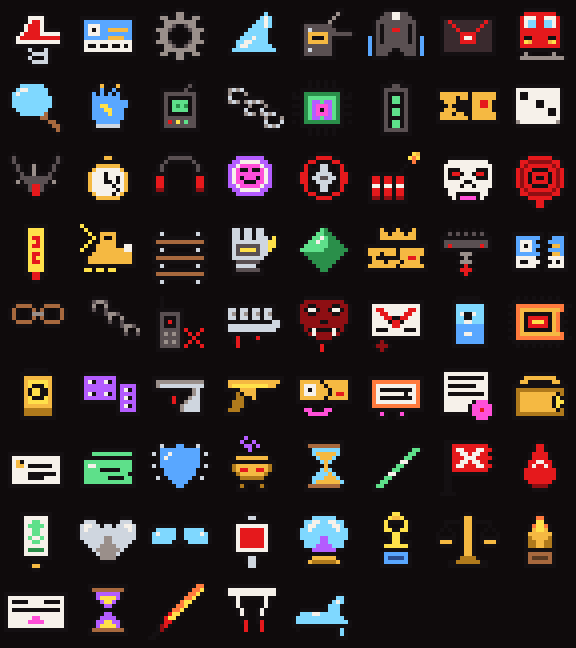
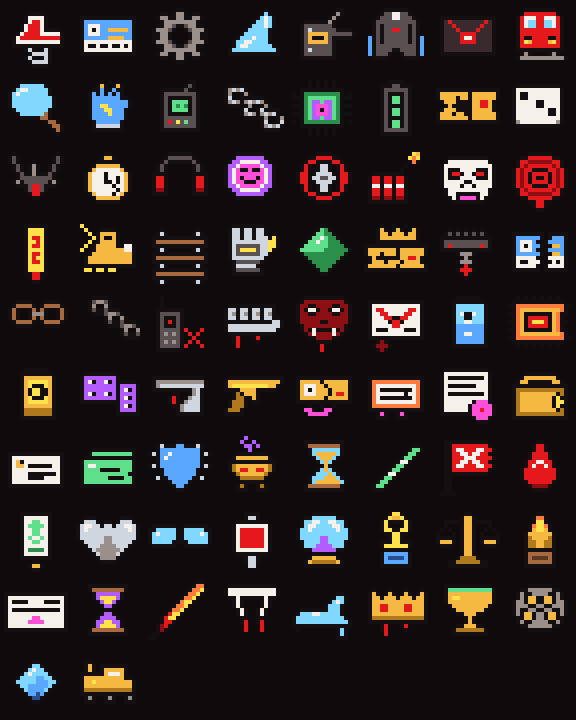
각인 S급 합성식: 같은 각인 4세트로 출장소 합성 시 그 각인 전용 S급(5종)이 후보 첫 칸에 · 작업대 안내 · 아이콘 5개
Claude-Session: https://claude.ai/code/session_01B3xQ3TWwgitFmhy9ffcws9

diff --git a/index.html b/index.html
@@ -589,7 +589,14 @@ const ITEMS={
  satanael:{n:'사타나엘의 탄환',ic:'🔥',r:'폭발',ax:'공용',rift:1,d:'모든 공격이 내성·방어·경감을 무시하고 무조건 2연타 (2개: 3연타)'},
  blank:{n:'벨벳 룸의 백지수표',ic:'🧾',r:'폭발',ax:'공용',rift:1,d:'출장소의 템·휴식·진열 바꾸기가 전부 ¥0 + 섀도 전투 보상을 한 번 더 고른다'},
  glassshoe:{n:'유리의 구두',ic:'👠',r:'폭발',ax:'공용',rift:1,d:'약점이 아니어도 매 턴 각자의 첫 공격 스킬이 1 MORE (2개: 첫 2번)'},
- fate:{n:'운명의 모래시계',ic:'⌛',r:'폭발',ax:'공용',rift:1,d:'전투 시작 시 관문 포함 적 전체의 현재 HP 50% 삭감 (2개: 60%)'}};
+ fate:{n:'운명의 모래시계',ic:'⌛',r:'폭발',ax:'공용',rift:1,d:'전투 시작 시 관문 포함 적 전체의 현재 HP 50% 삭감 (2개: 60%)'},
+ /* 각인 S급: 같은 각인 4세트를 맞춘 채 출장소에서 합성하면 그 각인의 S급이 합성 후보 첫 칸에 뜬다 (거울 던전식 키워드 합성) */
+ bloodcrown:{n:'피의 대관식',ic:'👑',r:'폭발',ax:'왜곡',rift:1,tagS:'자해',d:'잃은 HP 1%당 그 사람 피해 +1.5%'},
+ grail:{n:'불멸의 성배',ic:'🏆',r:'폭발',ax:'공용',rift:1,tagS:'재생',d:'매 턴 시작 전원 실드 +12 · [재생] 4세트 고정 피해 ×2'},
+ drum:{n:'무한 회전 탄창',ic:'🥁',r:'폭발',ax:'공용',rift:1,tagS:'연타',d:'모든 공격 스킬이 한 번 더 때린다'},
+ stone:{n:'현자의 돌',ic:'💠',r:'폭발',ax:'약점',rift:1,tagS:'마력',d:'스킬 SP 소모 절반 · 약점을 찌르면 SP +5'},
+ engine:{n:'황금 기관차',ic:'🚂',r:'폭발',ax:'공용',rift:1,tagS:'탐욕',d:'가진 엔 ¥1,000당 파티 공격력 +10% · 전투 엔 +50%'}};
+const TAG_S={자해:'bloodcrown',재생:'grail',연타:'drum',마력:'stone',탐욕:'engine'};
 const up=(id,a,b)=>cnt(id)>=2||(cnt(id)>=1&&(G.plus||[]).includes(id))?b:a;/* 같은 유물 2개 이상 또는 출장소 +1 강화 */
 /* 출장소: 템 하나를 고르면 판매 · +1 강화, 둘을 고르면 합성 */
 const SELL_P={B:100,A:250,S:500},PLUS_P={B:300,A:500,S:800},canPlus=id=>/2개/.test((IT(id)||{}).d||'')&&!(G.plus||[]).includes(id)&&cnt(id)<2;/* 같은 유물 2개 이상 = +1 강화 */
@@ -615,7 +622,7 @@ const TAGS={자해:{c:'#ff5a5a',s2:'HP 60% 이하인 사람 공격력 +35%',s4:'
  cell:'마력 연타',oclock:'마력 자해',infbat:'마력 연타',tdice:'연타 탐욕',trigger:'연타 마력',revolver:'연타 탐욕',gate:'탐욕 자해',oneway:'자해 재생',
  contract:'자해 마력',wallet:'탐욕 연타',card:'탐욕 자해',checks:'탐욕 재생',spshield:'재생 자해',censer:'마력 탐욕',hourglass:'재생 마력',rbaton:'연타 재생',flag:'재생 연타',
  bloodoath:'자해 연타',regen:'재생 마력',steelheart:'재생 자해',perfect:'재생 연타',transfuse:'재생 탐욕',phoenix:'자해 재생',glasscannon:'자해 마력',coil:'자해 마력',fang:'연타 재생',miser:'탐욕 재생',
- satanael:'연타 자해',blank:'탐욕 재생',glassshoe:'마력 연타',fate:'자해 마력',
+ satanael:'연타 자해',blank:'탐욕 재생',glassshoe:'마력 연타',fate:'자해 마력',bloodcrown:'자해 재생',grail:'재생 마력',drum:'연타 탐욕',stone:'마력 자해',engine:'탐욕 연타',
  sboots:'연타 탐욕',rails:'연타 마력',gaunt:'마력 연타',navi:'마력 탐욕',gold:'연타 탐욕',choker:'자해 재생'};
  for(const [k,v] of Object.entries(T)){const I=ITEMS[k]||EVO[k];if(I)I.tg=v.split(' ')}
  /* 표에 등급이 적힌 템은 그 등급 (나머지는 역할 기준) */
@@ -883,7 +890,7 @@ const alive=()=>G.party.filter(m=>m.hp>0);
 const hpR=m=>m.hp/m.max;
 function memMul(m){const B=G.battle,base=cnt('badge')?Math.min(...alive().map(hpR)):hpR(m);
  let k=1+.12*Math.floor((1-base)*10)*cnt('thorn');if(hpR(m)<=.4)k*=Math.pow(1.8,cnt('valve'));
- k*=1+.6*cnt('fuse');k*=1+.35*riskN()*cnt('contra');if(T2('자해')&&hpR(m)<=.6)k*=1.35;if(m.row===1)k*=Math.pow(1.5,cnt('cuffs'))*(cnt('oneway')?up('oneway',1.8,2.2):1);if(B)k*=1+(B.rev||0);return k}
+ k*=1+.6*cnt('fuse');k*=1+.35*riskN()*cnt('contra');if(T2('자해')&&hpR(m)<=.6)k*=1.35;if(cnt('bloodcrown'))k*=1+1.5*(1-hpR(m));if(m.row===1)k*=Math.pow(1.5,cnt('cuffs'))*(cnt('oneway')?up('oneway',1.8,2.2):1);if(B)k*=1+(B.rev||0);return k}
 const maskOn=m=>cnt('mask')&&hpR(m)<=.3;
 const byRow=r=>G.party.find(m=>m.row===r);
 /* ============ 수상한 역 · 금고 차량 (기벽 + 지휘 개입, 조합 사건) ============ */
@@ -944,7 +951,9 @@ function benchSell(){const i=ui.bsel[0],id=G.items[i];if(ui.bsel.length!==1||!id
 function benchPlus(){const i=ui.bsel[0],id=G.items[i];if(ui.bsel.length!==1||!id||!canPlus(id))return;const p=Math.round(PLUS_P[tier(id)]*dsc()/10)*10;if(G.yen<p)return;G.yen-=p;spendShop(p);(G.plus||(G.plus=[])).push(id);ui.bsel=[];log(`출장소: ${IT(id).n} +1 강화 (-¥${p})`);glow(id);flash('+1','g');render()}
 function benchToggle(i){if(!G.items[i])return;const s=ui.bsel;const j=s.indexOf(i);if(j>=0)s.splice(j,1);else if(s.length<2)s.push(i);render()}
 function synth(){const s=ui.bsel;if(s.length!==2||G.benchUsed)return;const ax=s.map(i=>IT(G.items[i]).ax);log(`출장소 합성: ${s.map(i=>IT(G.items[i]).n).join(' + ')} → ?`);
- G.items=G.items.filter((_,i)=>!s.includes(i));glassSync();G.benchUsed=true;ui.bsel=[];G.stats.evo++;G.fuseN=(G.fuseN||0)+1;if(G.fuseN>=2)achGet('regular');offer('벨벳 룸에서 새로 짜 맞춘 것',1,'evo',ax)}
+ const sx=Object.keys(TAG_S).filter(t=>T4(t)&&!G.items.includes(TAG_S[t])).map(t=>TAG_S[t]);
+ G.items=G.items.filter((_,i)=>!s.includes(i));glassSync();G.benchUsed=true;ui.bsel=[];G.stats.evo++;G.fuseN=(G.fuseN||0)+1;if(G.fuseN>=2)achGet('regular');offer('벨벳 룸에서 새로 짜 맞춘 것',1,'evo',ax);
+ if(sx.length&&G.pick){sx.slice(0,2).forEach((id,i)=>{G.pick.ch[i]=id;G.pick.syn[i]=true});G.pick.tagS=sx.length;G.stats.tagS=(G.stats.tagS||0)+1;log(`각인 합성식: ${sx.map(id=>`[${ITEMS[id].tagS}] ${ITEMS[id].n}`).join(' · ')}이 후보에 올랐다!`);render();setTimeout(()=>{if(G.pick){flash('S RANK','g');try{fxMid('coins')}catch(e){}}},420)}}
 /* ============ 템 3지선다 (시너지 가중 드롭: 가진 템과 맞물리는 템 ×2.5) ============ */
 /* 등급 B/A/S: 기존 역할 그대로 — 발동기 B · 증폭기 A · 폭발기·진화 S. 보상 3지선다에서 가끔 한 칸이 한 등급 위로 뜬다(랭크업) */
 const TIER_OF={발동:'B',증폭:'A',폭발:'S',진화:'S'},tier=id=>(IT(id)&&IT(id).g)||(EVO[id]?'S':TIER_OF[IT(id).r]||'B'),RANKUP=.12;
@@ -994,6 +1003,7 @@ function newRound(enemyFirst){const B=G.battle;B.round++;B.acted=new Set();B.mor
  if(cnt('bloodoath')){for(const m of alive())m.hp=Math.max(1,m.hp-5);B.atk+=up('bloodoath',.15,.22);log(`피의 서약: 전원 HP -5 · 공격력 +${Math.round(up('bloodoath',.15,.22)*100)}% 누적`);glow('bloodoath')}
  if(cnt('regen')){for(const m of alive())healU(m,up('regen',5,8));glow('regen')}
  if(cnt('steelheart')){for(const m of alive())shieldU(m,Math.round((m.max-m.hp)*up('steelheart',1,1.5)));glow('steelheart')}
+ if(cnt('grail')){for(const m of alive())m.shield=(m.shield||0)+12;glow('grail')}
  if(cnt('oneway')){const f1=byRow(1);if(f1&&f1.hp>0){shieldU(f1,15);glow('oneway')}}
  if(cnt('brink')&&!B.brinkUsed&&alive().some(m=>hpR(m)<=up('brink',.25,.4))){B.brinkT=1;log('벼랑 끝 예고장: 이번 턴 각성 스킬 SP 0');glow('brink')}else B.brinkT=0;
  if(B.round>1&&cnt('fuse')){for(const m of alive())m.hp=Math.max(1,m.hp-6*cnt('fuse'));log('도화선: 타들어 간다 — 전원 HP -6');glow('fuse')}
@@ -1003,9 +1013,9 @@ function newRound(enemyFirst){const B=G.battle;B.round++;B.acted=new Set();B.mor
  if(enemyFirst){render();return enemyPhase()}render();autoGo()}
 function actor(){const B=G.battle;if(!B)return null;if(B.extra)return G.party.find(m=>m.id===B.extra.id);return [...alive()].sort((a,b)=>a.row-b.row).find(m=>!B.acted.has(m.id))}
 function target(){const fa=foeAlive();if(!fa.length)return null;const B=G.battle;const tz=fa.find(x=>x.taunt);if(tz){B.sel=B.foes.indexOf(tz);return tz}let f=B.foes[B.sel];if(!f||f.hp<=0){f=fa[0];B.sel=B.foes.indexOf(f)}return f}
-const ocOn=s=>cnt('oclock')&&!s.type&&!s.all&&s.el!=='물리',spOf=(m,s)=>{const B=G.battle;if(s.awk&&B&&B.brinkT&&!B.brinkUsed)return 0;const c=ocOn(s)?Math.ceil(s.sp*up('oclock',2,1.5)):s.sp;return c>0&&T2('마력')?Math.max(1,Math.ceil(c*.75)):c};
+const ocOn=s=>cnt('oclock')&&!s.type&&!s.all&&s.el!=='물리',spOf=(m,s)=>{const B=G.battle;if(s.awk&&B&&B.brinkT&&!B.brinkUsed)return 0;const c=ocOn(s)?Math.ceil(s.sp*up('oclock',2,1.5)):s.sp;const c2=c>0&&T2('마력')?Math.max(1,Math.ceil(c*.75)):c;return c2>0&&cnt('stone')?Math.max(1,Math.ceil(c2*.5)):c2};
 function canUse(m,s){return s.rows.includes(m.row)&&m.sp>=spOf(m,s)&&(!s.type||!['sleep','hack','debuff'].includes(s.type)||!!target())&&reach(s,target())}
-const powMul=bat=>{const B=G.battle,bx=bat&&B.lastBat?BOND.bat[bondOf(B.lastBat.from,B.lastBat.id).lv]+(achDone('trio')?.05:0):0;return (DF().patk||1)*(1+.3*B.relay+B.atk+(B.atkT||0)+up('checks',.04,.06)*(cnt('checks')?G.chk||0:0)+up('wallet',.08,.12)*(cnt('wallet')?Math.floor(G.yen/1000):0))*(1+B.vuln)*(bat?1.25+bx:1)*(B.round===1&&cnt('navi')?1.5:1)};
+const powMul=bat=>{const B=G.battle,bx=bat&&B.lastBat?BOND.bat[bondOf(B.lastBat.from,B.lastBat.id).lv]+(achDone('trio')?.05:0):0;return (DF().patk||1)*(1+.3*B.relay+B.atk+(B.atkT||0)+up('checks',.04,.06)*(cnt('checks')?G.chk||0:0)+up('wallet',.08,.12)*(cnt('wallet')?Math.floor(G.yen/1000):0)+(cnt('engine')?.1*Math.floor(G.yen/1000):0))*(1+B.vuln)*(bat?1.25+bx:1)*(B.round===1&&cnt('navi')?1.5:1)};
 async function useSkill(i){const B=G.battle,m=actor();if(!m||ui.busy)return;ui.autoHold=0;const s=m.c.sk[i];if(!canUse(m,s))return;ui.busy=true;const spPaid=spOf(m,s);if(s.awk&&B.brinkT&&!B.brinkUsed){B.brinkUsed=1;log('벼랑 끝 예고장: 각성 스킬 SP 0!');glow('brink')}m.sp-=spPaid;B.spT=(B.spT||0)+spPaid;if(B.spT>=50)achGet('spover');
  if(cnt('cell')){B.mag=(B.mag||0)+up('cell',.12,.18);glow('cell')}
  if(s.sp)for(let k=0;k<cnt('battery');k++)if(chance(.3)){m.sp=Math.min(m.msp,m.sp+s.sp);log('배터리 팩: SP 환급');glow('battery');break}
@@ -1034,7 +1044,7 @@ async function useSkill(i){const B=G.battle,m=actor();if(!m||ui.busy)return;ui.a
  const rb=bat&&cnt('rbaton'),cd=cnt('card')&&G.yen>=100?(G.yen-=100,glow('card'),up('card',1.6,2)):1,all=s.all||ocOn(s);if(ocOn(s))glow('oclock');
  const pw=s.pow*powMul(bat)*memMul(m)*(B.moreHit&&cnt('radio')?1+.6*cnt('radio'):1)*(s.el!=='물리'?1+(B.mag||0):1)*cd*(rb&&cnt('rbaton')>=2?1.2:1)*(cnt('perfect')&&hpR(m)>=up('perfect',1,.9)?2:1)*(cnt('glasscannon')?up('glasscannon',1.8,2.2):1);m.crit=s.crit||0;let weak=false;B.moreHit=false;
  if(cnt('perfect')&&hpR(m)>=up('perfect',1,.9))glow('perfect');if(s.sp&&cnt('coil')){m.hp=Math.max(1,m.hp-up('coil',4,2));m.crit=1;glow('coil')}
- let reps=1+(s.el==='물리'&&cnt('knuckle')&&hpR(m)<=up('knuckle',.5,.7)?1:0)+(rb?1:0)+(cnt('satanael')?up('satanael',1,2):0);if(cnt('satanael'))glow('satanael');if(reps>1)glow(rb?'rbaton':'knuckle');
+ let reps=1+(s.el==='물리'&&cnt('knuckle')&&hpR(m)<=up('knuckle',.5,.7)?1:0)+(rb?1:0)+(cnt('satanael')?up('satanael',1,2):0)+(cnt('drum')?1:0);if(cnt('satanael'))glow('satanael');if(reps>1)glow(rb?'rbaton':'knuckle');
  const once=(k=1)=>{let w=false;if(all){for(const x of foeAlive())if(hit(m,x,pw*k,s.el,s.n))w=true}
  else{const t=f&&f.hp>0?f:target();if(t&&t.hp>0){w=hit(m,t,pw*k,s.el,s.n);if(t.hp>0){if(s.dot){t.dot={v:s.dot,t:2};}if(s.stun&&!t.immune&&chance(s.stun)){t.stun=1;log(`${t.n} 기절!`)}if(s.push&&t===f){const a=B.foes,i=a.indexOf(t),j=a.findIndex((x,k)=>k>i&&x.hp>0);if(j>0){a[i]=a[j];a[j]=t;B.sel=j;log(`${jo(t.n,"을","를")} 뒤로 밀쳤다!`)}}}}}return w};
  for(let r=0;r<reps&&foeAlive().length;r++){if(r)await sleep(170);if(once(reps>1&&r===reps-1&&T2('연타')?1.5:1))weak=true}/* 연타 2세트: 마지막 타 +50% */
@@ -1066,6 +1076,7 @@ function hit(m,f,pow,el,sn){const B=G.battle,wasDown=f.down,we=effWeak(f);
  if(w&&cnt('glove')){const i=B.foes.indexOf(f),nb=[B.foes[i-1],B.foes[i+1]].filter(x=>x&&x.hp>0),t=cnt('glove')*mul();for(let k=0;k<t;k++)for(const x of nb){const sd=Math.round(d*.5);x.hp=Math.max(0,x.hp-sd);pop('f'+B.foes.indexOf(x),String(sd),'w')}if(nb.length){log('전도성 장갑: 옆 적에게 번졌다');glow('glove')}}
  if(w&&cnt('gaunt')&&!B.unify){B.unify=el;log(`과부하 건틀릿: 이번 턴 모든 적의 약점이 ${el}!`);glow('gaunt')}
  if(w)G.stats.weak++;
+ if(w&&!cr&&cnt('stone')&&m.hp>0){m.sp=Math.min(m.msp,m.sp+5);glow('stone')}
  if(cr){B.critN=(B.critN||0)+1;const n=cnt('tdice')?up('tdice',1,2)*mul():0;for(let k=0;k<n;k++){const fa=foeAlive();if(!fa.length)break;const x=pick(fa),xd=Math.round(d*.6);x.hp=Math.max(0,x.hp-xd);pop('f'+B.foes.indexOf(x),String(xd),'');fxFoe(x,'spark')}if(n)glow('tdice')}
  if(f.hp<=0&&cnt('vampmask')&&m.hp>0){const v=Math.round(m.max*up('vampmask',.2,.3)),gain=Math.min(v,m.max-m.hp);m.hp+=gain;if(v>gain)m.over=(m.over||0)+v-gain;pop(m.id,'+'+gain,'h');glow('vampmask')}
  if(w&&f.boss==='lost'&&B.sealed.length){B.sealed=[];B.sealT={};log('약점을 찔리자 보관함이 열렸다! 봉인 해제')}
@@ -1167,7 +1178,7 @@ async function foeAct(f,k){const B=G.battle,al=alive(),i=B.foes.indexOf(f);act('
   case 'megido':f.charge=0;flash('MEGIDOLAON');fxPlay('megido','.side.pt',{foot:true});log('메기도라온!');for(const m of al)await strike(f,m,2.2,'메기도라온');return;
   default:return strike(f,pickT(),1)}}
 async function enemyPhase(){const B=G.battle;ui.busy=true;
- if(T4('재생')){const sh=alive().reduce((t,m)=>t+(m.shield||0),0);if(sh>0){for(const f of foeAlive()){f.hp=Math.max(0,f.hp-sh);pop('f'+B.foes.indexOf(f),String(sh),'w')}log(`각인 [재생] 4세트: 남은 실드 ${sh}만큼 적 전체 고정 피해`);render();await sleep(300);if(!foeAlive().length){ui.busy=false;checkWin();return}}}
+ if(T4('재생')){const sh=alive().reduce((t,m)=>t+(m.shield||0),0)*(cnt('grail')?2:1);if(sh>0){for(const f of foeAlive()){f.hp=Math.max(0,f.hp-sh);pop('f'+B.foes.indexOf(f),String(sh),'w')}log(`각인 [재생] 4세트: 남은 실드 ${sh}만큼 적 전체 고정 피해`);render();await sleep(300);if(!foeAlive().length){ui.busy=false;checkWin();return}}}
  if(cnt('flag')&&B.acted.size>=3){const r=up('flag',.15,.25);for(const m of alive()){m.hp=Math.min(m.max,m.hp+Math.round(m.max*r));m.sp=Math.min(m.msp,m.sp+Math.round(m.msp*r))}B.flagNext=up('flag',.4,.6);log(`괴도단의 깃발: 셋 모두 행동 — 전원 HP·SP ${r*100}% 회복!`);glow('flag')}
  if(cnt('hourglass')){const sh=alive().reduce((t,m)=>t+(m.shield||0),0);if(sh>0){for(const m of G.party)m.shield=0;const d=Math.round(sh*up('hourglass',2,3));for(const f of foeAlive()){f.hp=Math.max(0,f.hp-d);pop('f'+B.foes.indexOf(f),String(d),'w');fxFoe(f,'crit',{stop:.4})}log(`역전의 모래시계: 실드 ${sh}을 터뜨려 적 전체 ${d}!`);glow('hourglass');render();await sleep(400);if(!foeAlive().length){ui.busy=false;checkWin();return}}}
  if(B.foes.some(f=>f.hp>0&&f.key==='swarm')&&B.round>0){for(const m of alive())m.sp=Math.max(0,m.sp-3)}/* 섀도 무리: 방치하면 매 턴 SP -3 */
@@ -1191,7 +1202,7 @@ function checkWin(){const B=G.battle;if(!B||foeAlive().length)return false;ui.bu
  const fy=f=>f.fled?0:yk(f.tier==='e'?R(600,950):f.tier==='n'?R(350,420):0);
  const bossY={ticket:yk(2200),lost:yk(3500),final:yk(6000)},bossK=1+.5*DEEP(),cm=1+.6*Math.min(1,cnt('crack'));/* 정기권은 겹쳐도 한 번만 */
  if(B.kind==='boss')G.stats.gates=(G.stats.gates||0)+1;
- const y=Math.round((T2('탐욕')?1.3:1)*(B.kind==='boss'?Math.round((bossY[B.foes[0].boss]||2200)*bossK):B.kind==='reaper'?yk(6000):B.foes.reduce((t,f)=>t+fy(f),0)*cm)*(B.kind==='normal'||B.kind==='ambush'?(DF().byen||1)*(cnt('gate')?up('gate',2,2.5):1):1));G.yen+=y;log(`승리! +¥${y}${cm>1&&B.kind!=='boss'?' (깨진 정기권)':''}`);
+ const y=Math.round((T2('탐욕')?1.3:1)*(cnt('engine')?1.5:1)*(B.kind==='boss'?Math.round((bossY[B.foes[0].boss]||2200)*bossK):B.kind==='reaper'?yk(6000):B.foes.reduce((t,f)=>t+fy(f),0)*cm)*(B.kind==='normal'||B.kind==='ambush'?(DF().byen||1)*(cnt('gate')?up('gate',2,2.5):1):1));G.yen+=y;log(`승리! +¥${y}${cm>1&&B.kind!=='boss'?' (깨진 정기권)':''}`);
  setTimeout(()=>{const m=pick(alive());if(m)say(m.id,'win')},50);for(const m of alive())act(m.id,'hop',1000);
  G.battle=null;runSave(true,null);/* 이긴 뒤 새로고침하면 보상 고르기만 건너뜀 (전투를 다시 하지 않음) */
  if(B.kind==='boss'){(G.bossLog||(G.bossLog=[])).push({fl:G.fl+1,r:B.round,hp:Math.round(G.party.reduce((t,m)=>t+Math.max(0,m.hp)/m.max,0)/3*100),ko:G.party.filter(m=>m.hp<=0).length});{const al=G.party.filter(m=>m.hp>0);if(G.fl===0)achGet('first');if(G.fl===1)achGet('lostfound');if(G.fl===2){achGet('deepest');achGet('reaper3')}
@@ -1592,7 +1603,7 @@ function vBench(){const s=ui.bsel,S_=G.shop||{ch:[],sold:[]};
  return `<div class="dlg"><span class="who">VELVET ROOM</span><p>"어서 오시게, 손님." · <b>¥${G.yen}</b></p></div>
  <div class="pick">${S_.ch.map((id,i)=>{const I=IT(id),p=shopPrice(id),sold=S_.sold.includes(i);return `<button class="pk ${I.risk?'risk':''}" data-a="buy:${i}" ${sold||G.yen<p?'disabled':''}><span class="ic">${I.ic}</span><span style="flex:1"><b>${I.n}</b><span class="tg">${I.r}</span><span class="tg">${I.ax}</span>${cnt(id)?`<span class="tg">×${cnt(id)+1}</span>`:''}<small>${I.d}${I.risk?` · <b class="rk">대가: ${I.risk}</b>`:''}</small></span><b class="price">${sold?'SOLD':'¥'+p}</b></button>`}).join('')}</div>
  <div class="row2" style="flex-wrap:wrap;gap:6px"><button class="tog" data-a="shopheal" ${S_.healed||G.yen<healP()?'disabled':''}>휴식 ¥${healP()} · HP 30% · SP +15</button><button class="tog" data-a="shoprr" ${G.yen<rrP()?'disabled':''}>진열 바꾸기 ¥${rrP()}</button></div>
- <div class="dlg"><span class="who">WORKBENCH</span><p>위 템 칸에서 <b>1개</b>를 고르면 판매 · +1 강화, <b>2개</b>를 고르면 진화 템 합성${G.benchUsed?' (합성은 이번 출장소에서 완료)':''}</p>${s.length===1?(()=>{const id=G.items[s[0]],T=tier(id),sp=SELL_P[T]||100,pp=Math.round(PLUS_P[T]*dsc()/10)*10;return `<p class="tip">${IT(id).ic} <b>${IT(id).n}</b> ${T}등급${(G.plus||[]).includes(id)||cnt(id)>=2?' · 이미 +1':''}</p><div class="row2"><button class="ab" data-a="bsell"><b>판매</b><small>+¥${sp}</small></button><button class="ab" data-a="bplus" ${canPlus(id)&&G.yen>=pp?'':'disabled'}><b>+1 강화</b><small>${canPlus(id)?`¥${pp} · 2개 가진 효과`:/2개/.test(IT(id).d)?'이미 강화됨':'강화 효과 없는 템'}</small></button></div>`})():''}${!G.benchUsed&&s.length===2?`<p class="tip">넣을 것: ${s.map(i=>IT(G.items[i]).n).join(' + ')}</p>`:''}</div>
+ <div class="dlg"><span class="who">WORKBENCH</span><p>위 템 칸에서 <b>1개</b>를 고르면 판매 · +1 강화, <b>2개</b>를 고르면 진화 템 합성${G.benchUsed?' (합성은 이번 출장소에서 완료)':''}</p>${(()=>{const L=Object.keys(TAG_S).filter(t=>T4(t)&&!G.items.includes(TAG_S[t]));return L.length&&!G.benchUsed?`<p class="tip tags">${L.map(t=>`${tagChip(t)} 4세트 → 합성하면 <b>${ITEMS[TAG_S[t]].n}</b>(S)이 후보에`).join('<br>')}</p>`:''})()}${s.length===1?(()=>{const id=G.items[s[0]],T=tier(id),sp=SELL_P[T]||100,pp=Math.round(PLUS_P[T]*dsc()/10)*10;return `<p class="tip">${IT(id).ic} <b>${IT(id).n}</b> ${T}등급${(G.plus||[]).includes(id)||cnt(id)>=2?' · 이미 +1':''}</p><div class="row2"><button class="ab" data-a="bsell"><b>판매</b><small>+¥${sp}</small></button><button class="ab" data-a="bplus" ${canPlus(id)&&G.yen>=pp?'':'disabled'}><b>+1 강화</b><small>${canPlus(id)?`¥${pp} · 2개 가진 효과`:/2개/.test(IT(id).d)?'이미 강화됨':'강화 효과 없는 템'}</small></button></div>`})():''}${!G.benchUsed&&s.length===2?`<p class="tip">넣을 것: ${s.map(i=>IT(G.items[i]).n).join(' + ')}</p>`:''}</div>
  <div class="row2">${G.benchUsed?'':`<button class="go" data-a="synth" ${s.length===2?'':'disabled'}>FUSE</button>`}<button class="go sub" data-a="leave">LEAVE</button></div>`}
 function vFloor(){const n=G.fl+1,ok=canDescend();return `<div class="dlg"><span class="who">B${n} CLEAR</span>${G.deal==='give'&&G.fl===n-1?'<p class="tip">보물을 내주고 지나왔다 — 의뢰 2는 다음 판에</p>':''}${G.questNew===n?`<p style="color:var(--gold)"><b>의뢰 ${n} 완료!</b> 괴도 채널 지지율 ${QUESTS[n-1].sup}% · 보상 <b>+¥${QUESTS[n-1].y.toLocaleString()}</b> (르블랑 지갑으로)</p><p class="tip">${esc(questGuide().t)}</p>`:''}<p>${ok?`<b>B${n+1} ${FLR(n).n}</b> — 더 세지고 보상도 커짐<br><small>내려가면 HP 30% · SP 50% 회복 · <b>최대 HP +10% · 받는 피해 -5%</b>(누적 최대 -40%) · 경계도 -${riskDrop()} (지금 ${G.risk} → ${Math.max(0,G.risk-riskDrop())}, 다음 층으로 이어짐) · 전멸하면 엔 절반</small>`:`<b>B${n+1} 선로가 막혀 있다</b> — 모나 버스 Lv.${n+1} 필요 (¥${UPG.bus.cost[n-1]})`}</p></div>
  ${n>=3?`<p class="tip">∞ <b>무한 모드</b> — 심층은 한 층마다 적이 세지고, 관문마다 <b>심층 보너스</b>(상한과 따로)가 쌓입니다. 전멸하면 심층 보너스는 사라집니다.${G.deepBonus?` 지금 <b>+¥${G.deepBonus}</b>`:''} · 최고 기록 B${Math.max(SV.deep||0,n)}</p>`:''}<div class="row2"><button class="go ${ok?'sub':''}" data-a="ret">${n>=3?'ALL CLEAR':'RETURN'}</button>${ok?`<button class="go" data-a="down">${n>=3?'∞ ENDLESS ↓':'GO DEEPER ↓'}</button>`:''}</div>`}

diff --git a/tools/item_icons.py b/tools/item_icons.py
@@ -591,6 +591,32 @@ ICONS = {
   "...........kkk..",
   "................",
  ],
+
+ 'bloodcrown': [  # 피의 대관식
+  "", "", "..k...k...k...k.", ".kyk.kyk.kyk.kyk", ".kyykyyykyyykyyk", ".kyyyyyyyyyyyyyk", ".kyyrryyyyrryyyk",
+  ".kyyrryyyyrryyyk", ".kyyyyyyyyyyyyyk", ".kYYYYYYYYYYYYYk", ".kkkkkkkkkkkkkkk", "....kr...kr.....",
+  "....kr....k.....", ".....r..........", "", "",
+ ],
+ 'grail': [  # 불멸의 성배
+  "", "..kkkkkkkkkkkk..", "..klllllllllllk.", "..kyyyyyyyyyyyk.", "..kyeeyyyyyyyyk.", "..kyyyyyyyyyyyk.",
+  "...kyyyyyyyyyk..", "....kyyyyyyyk...", ".....kkyyykk....", ".......kyk......", ".......kyk......",
+  ".....kkyyykk....", "....kYYYYYYYk...", "....kkkkkkkkk...", "", "",
+ ],
+ 'drum': [  # 무한 회전 탄창
+  "", ".....kkkkkk.....", "...kkggggggkk...", "..kgkkggggkkgk..", "..kgkyykkyykgk..", ".kggkyykkyykggk.",
+  ".kgggkkggkkgggk.", ".kgkkggkkggkkgk.", ".kgkyykggkyykgk.", "..kkyykggkyykk..", "..kgkkggggkkgk..",
+  "...kkggggggkk...", ".....kkkkkk.....", "", "", "",
+ ],
+ 'stone': [  # 현자의 돌
+  "", "", ".......kk.......", "......kcck......", ".....kcwcck.....", "....kcwcccck....", "...kccccbbcck...",
+  "..kcccccbbbcck..", "...kccbbbbbck...", "....kcbbbbck....", ".....kbbBbk.....", "......kBBk......",
+  ".......kk.......", "", "", "",
+ ],
+ 'engine': [  # 황금 기관차
+  "", "", "..kk............", "..kyk.kkkkkkk...", "..kyk.kyyyyyk...", ".kkkkkkywwwyk...", ".kyyyyyyyyyykk..",
+  ".kyyeyyyyyyyyyk.", ".kyyyyyyyyyyyyk.", ".kYYYYYYYYYYYYk.", ".kkkkkkkkkkkkkk.", "..kgk..kgk..kgk.",
+  "..kkk..kkk..kkk.", "", "", "",
+ ],
 }
 
 

diff --git a/docs/core-proto.md b/docs/core-proto.md
@@ -308,3 +308,8 @@
 - BREAK!: 큰 예고(치명 · 메기도라온 준비 · 컨센트레이트 · 검표 선언 · 압수 · 동료 부르기 · 강탈, 또는 보스·거두는 자의 예고)를 약점·TECHNICAL DOWN으로 끊으면 「BREAK! ○○ 저지」 + 패리 섬광. DOWN된 적은 원래 그 턴을 쉬므로 규칙은 그대로, 모으던 힘(컨센트레이트)은 흩어짐. 판 기록 stats.brk
 - 각성 컷인: 각성 스킬을 쓰면 1.1초 동안 캐릭터색 사선 띠 + 큰 도트 + 「코드네임 · AWAKEN」 스킬 이름. 동작 줄이기 설정이면 움직임 없음
 - 4단계 총공격 연출은 되돌린 상태 그대로(#126)
+
+## 각인 S급 합성식 (림버스 컴퍼니 피드백 1 — 거울 던전식 키워드 합성)
+- 앞 6칸에 같은 각인 4세트를 맞춘 채 출장소에서 합성하면, 그 각인의 S급이 합성 후보 첫 칸에 뜬다(두 각인이면 두 칸). 작업대에 "[연타] 4세트 → 합성하면 ○○(S)이 후보에" 안내
+- 피의 대관식[자해]: 잃은 HP 1%당 그 사람 피해 +1.5% · 불멸의 성배[재생]: 매 턴 전원 실드 +12, 재생 4세트 고정 피해 ×2 · 무한 회전 탄창[연타]: 모든 공격 스킬 1타 더 · 현자의 돌[마력]: SP 소모 절반, 약점 시 SP +5 · 황금 기관차[탐욕]: ¥1,000당 공격력 +10%, 전투 엔 +50%
+- 일반 보상 · 상점 · 인지의 균열에는 안 나옴. 판 기록 stats.tagS
